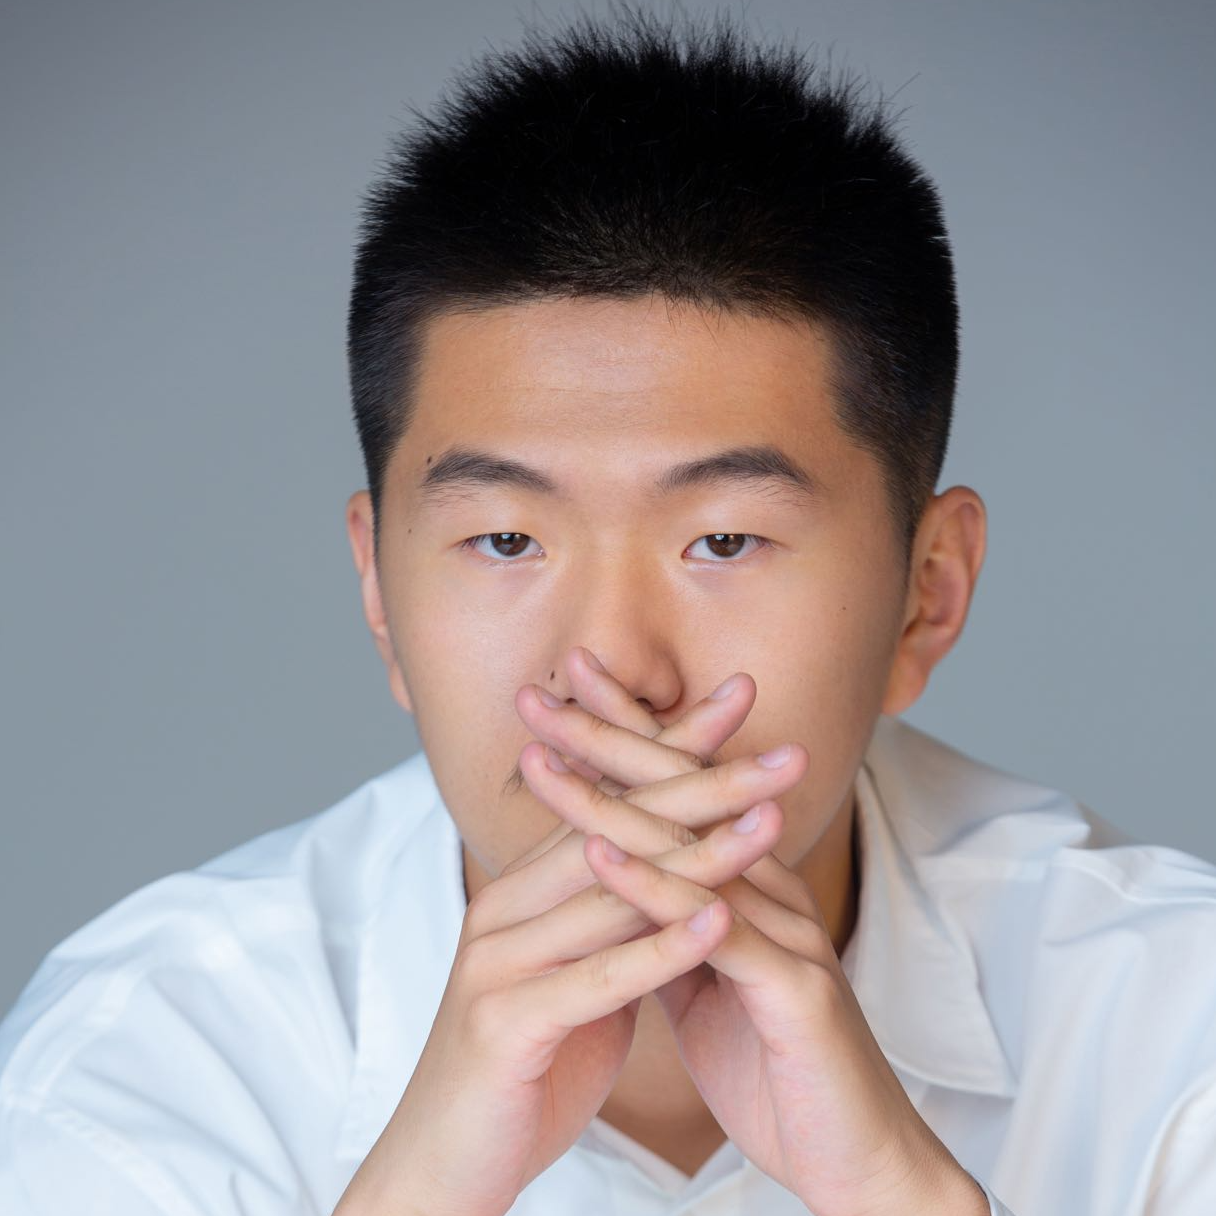
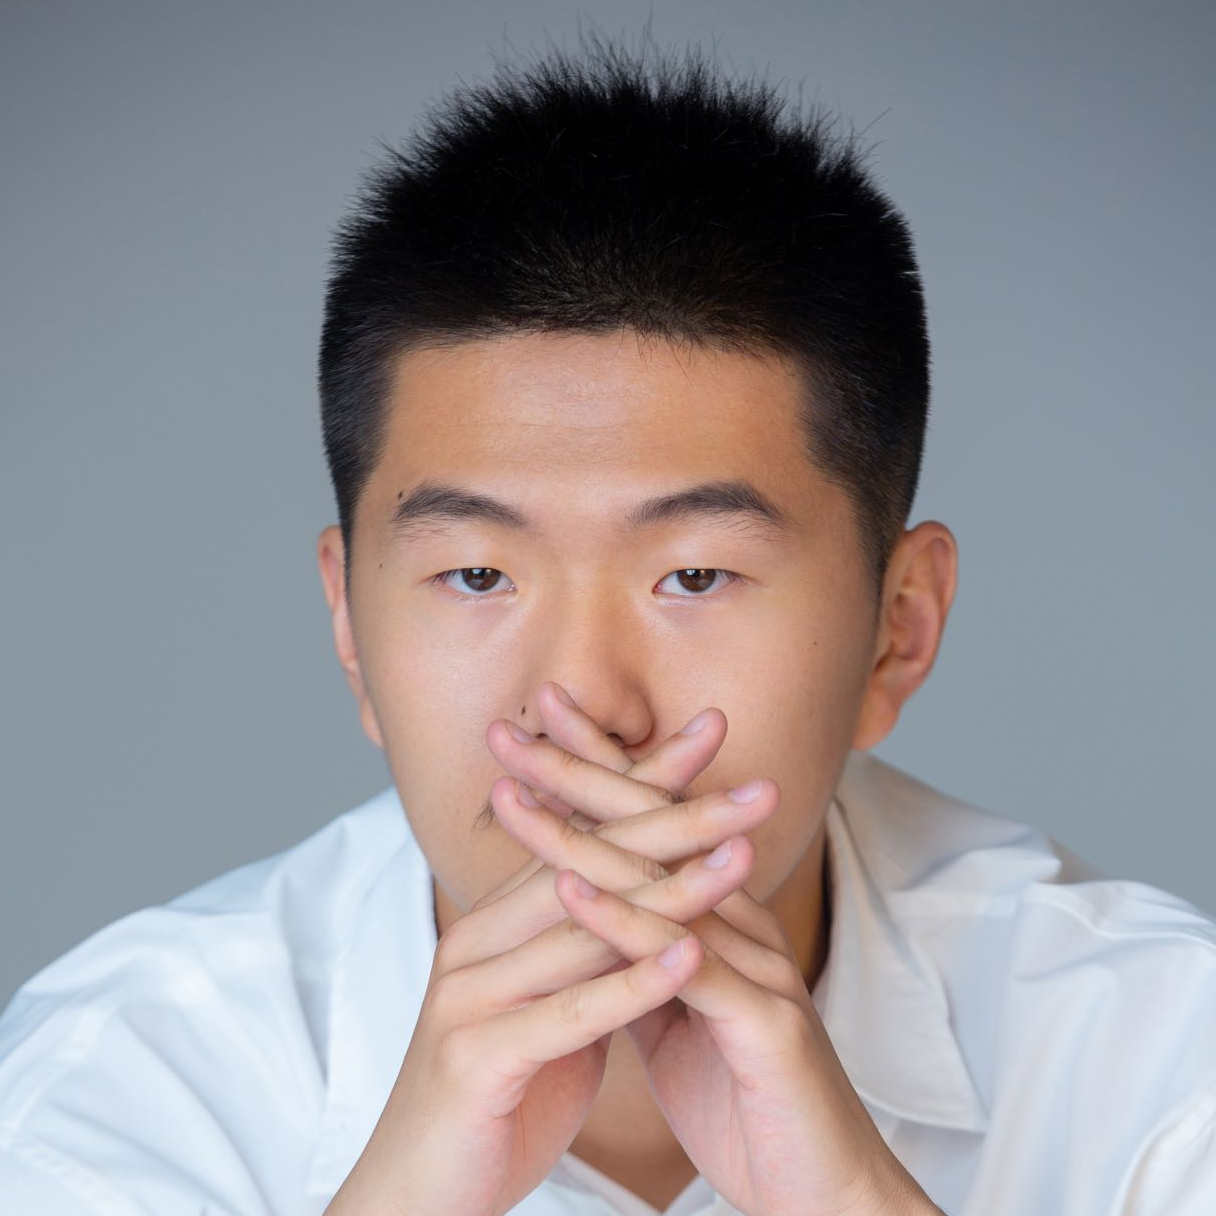
update profile photo, add the map

diff --git a/_includes/footer.html b/_includes/footer.html
@@ -22,7 +22,7 @@
     {% endif %}
     <li><a href="{% if site.atom_feed.path %}{{ site.atom_feed.path }}{% else %}{{ base_path }}/feed.xml{% endif %}"><i class="fa fa-fw fa-rss-square" aria-hidden="true"></i> {{ site.data.ui-text[site.locale].feed_label | default: "Feed" }}</a></li>
   </ul>
-  Last Updated: Dec 7th, 2024
+  Last Updated: Jan 3th, 2024
 </div>
 
 

diff --git a/_pages/about.md b/_pages/about.md
@@ -107,4 +107,7 @@ Under Review: CVPR 2025 <br>
 ## Academic Activities
 * Heidelberg Laureate Forum, Heidelberg, Germany, Sep 2024 
 * European Conference on Computer Vision (ECCV), Milano, October 2024
-
+  
+<body>
+<script type="text/javascript" id="clustrmaps" src="//clustrmaps.com/map_v2.js?d=rUF992iYQWrZ_LL1QubVCDfh8_5rwRTDGQH_ZDxDV4A&cl=ffffff&w=a"></script>
+</body>
